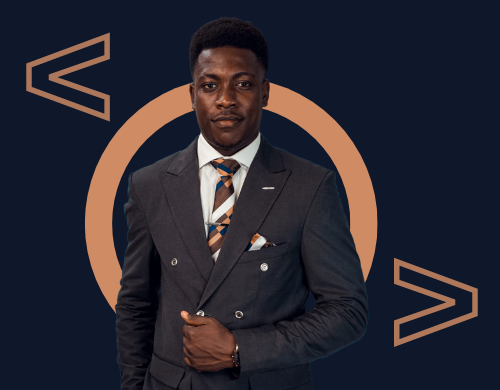
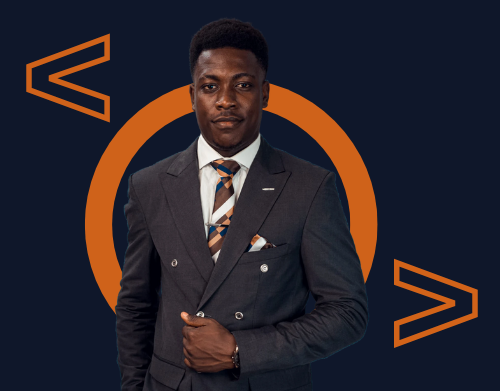
added contact section

diff --git a/src/app/page.tsx b/src/app/page.tsx
@@ -4,9 +4,23 @@ import Image from 'next/image';
 import { Mail, Github, Linkedin } from 'lucide-react';
 import { Button } from '@/components/ui/button';
 import './globals.css';
+import { useForm, SubmitHandler } from 'react-hook-form';
+
 import { Header } from '@/components/Header';
 
 export default function Home() {
+	interface IFormInput {
+		name: string;
+		email: string;
+		message: string;
+	}
+	const {
+		register,
+		handleSubmit,
+		formState: { errors },
+	} = useForm<IFormInput>();
+
+	const onSubmit: SubmitHandler<IFormInput> = (data) => console.log(data);
 	return (
 		<>
 			<Header />
@@ -28,7 +42,7 @@ export default function Home() {
 					</h2>
 					<div className='flex flex-row gap-2'>
 						<Button
-							className='cursor-pointer rounded-none p-5 bg-orange-500 border-2 border-orange-500 dark:text-white hover:bg-transparent'
+							className='cursor-pointer rounded-none p-5 bg-orange-500 border-2 border-orange-500 text-black dark:text-white hover:bg-transparent'
 							asChild
 						>
 							<Link
@@ -70,7 +84,7 @@ export default function Home() {
 					/>
 				</div>
 			</div>
-			<div className='bg-[#17232d] text-lg font-bold font-montserrat py-5 px-8 md:px-20 h-auto'>
+			<div className='bg-[#fcddca] dark:bg-[#17232d] text-lg font-bold font-montserrat py-5 px-8 md:px-20 h-auto'>
 				<ul className='grid grid-cols-4 sm:grid-cols-2 md:flex md:justify-between gap-4 md:gap-0 text-center md:text-left'>
 					<li>HTML5</li>
 					<li>CSS3</li>
@@ -82,19 +96,61 @@ export default function Home() {
 					<li>Github</li>
 				</ul>
 			</div>
-			<section
+			{/* <section
 				id='about'
 				className=''
 			>
 				<div></div>
 				<div></div>
-			</section>
+			</section> */}
 			<section
 				id='contact'
 				className=''
 			>
-				<div></div>
-				<div></div>
+				<div className='flex flex-col md:flex-row items-center justify-center  px-8 md:px-20 py-20 md:py-30  md:pt-12 font-[Montserrat] dark:bg-[#0f172a]'>
+					<div className='flex flex-col items-center md:items-start mt-13 md:mt-5  justify-center min-h-auto p-0  gap-8 md:gap-14 md:p-0 w-[100%] md:w-1/2 '>
+						<div className='flex md:flex-row flex-col-reverse gap-0 '>
+							<p className='flex justify-center items-center text-1xl font-bold text-orange-500'>
+								______
+							</p>
+							<p className='text-black dark:text-white text-2xl font-bold md:text-4xl'>
+								Contact
+							</p>
+						</div>
+						<h2 className='flex flex-col justify-center md:justify-start items-center md:items-start text-4xl md:text-5xl font-bold text-black dark:text-white  w-[100%]'>
+							Have a project? <span>Lets talk</span>
+						</h2>
+					</div>
+					<div className='flex justify-center items-center w-[80vw] md:w-1/2  h-[auto] '>
+						<form
+							onSubmit={handleSubmit(onSubmit)}
+							className='flex flex-col grow pt-6 '
+						>
+							<label>Name</label>
+							<input
+								{...register('name', { required: true })}
+								className='border-b-2 border-b-white'
+							/>
+							{errors.name && <span>This field is required</span>}
+							<label className='pt-3'>Email</label>
+							<input
+								{...register('email')}
+								className='border-b-2 border-b-white'
+							/>
+							{errors.email && <span>This field is required</span>}
+							<label className='pt-3'>Message</label>
+							<input
+								{...register('message')}
+								className='border-b-2 border-b-white'
+							/>
+							{errors.message && <span>This field is required</span>}
+							<input
+								type='submit'
+								className='cursor-pointer rounded-none py-2 px-3 bg-orange-500 border-2 border-orange-500 text-black dark:text-white hover:bg-transparent md:self-start  mt-4 md:w-[]'
+							/>
+						</form>
+					</div>
+				</div>
 			</section>
 			<section
 				id='footer'
